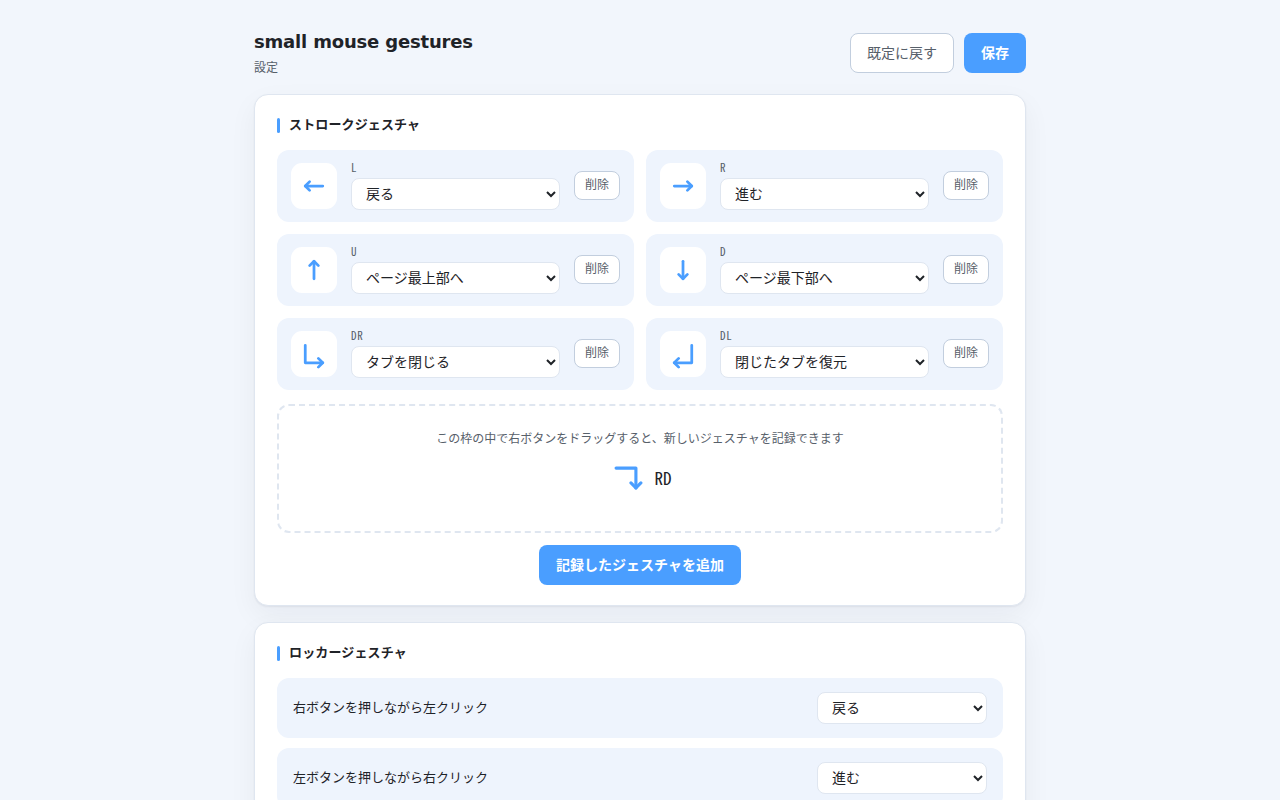
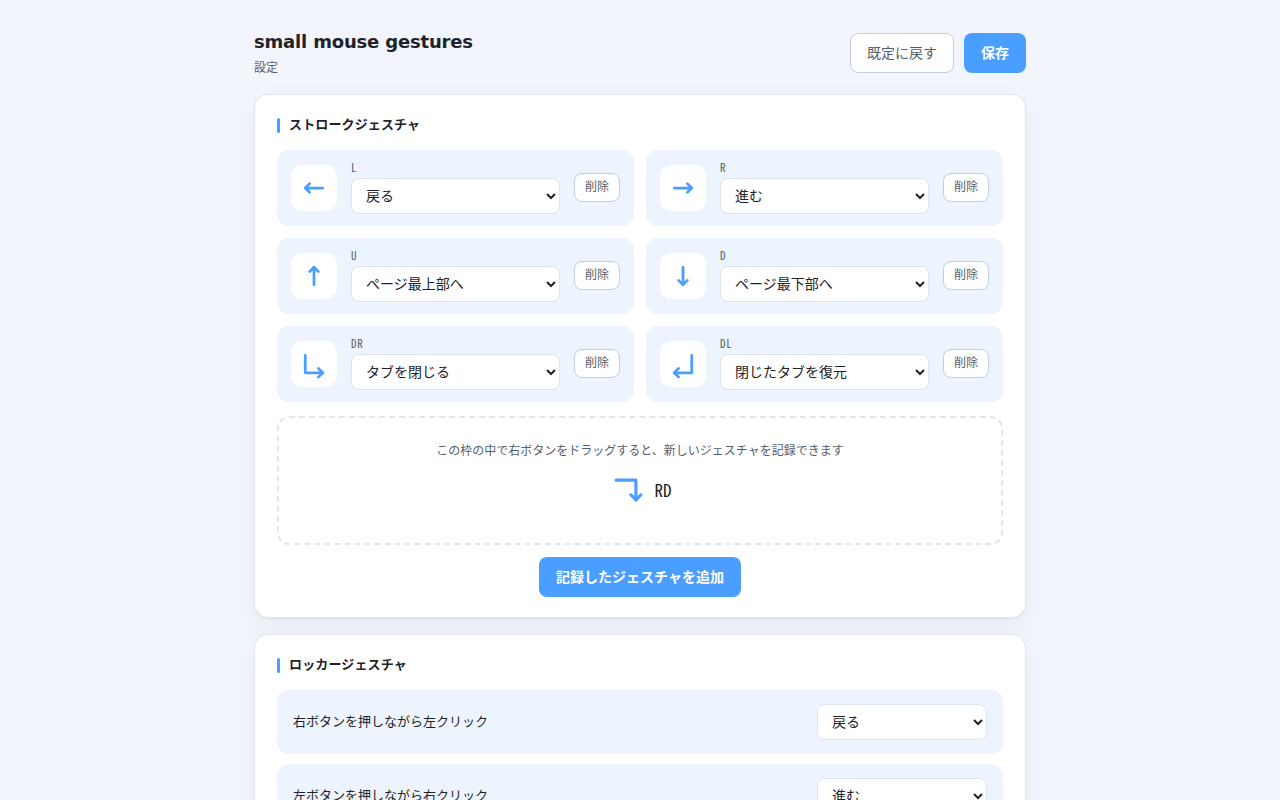
fix: 表示カードの入力欄の高さを揃える
「軌跡の色」と「軌跡の太さ」のラベルが縦にずれていた。入力欄は下端で
揃えているため、コントロールの高さの差がそのままラベルのずれになる。
色の入力欄だけ height: 32px を明示していて、数値入力の実測 36.4px と
食い違っていた（ラベルの位置が 4.3px ずれる）。

--control-height トークンを置き、数値入力・プルダウン・色の入力欄を
36px に統一した。実測でラベル・入力欄とも位置と高さが完全に一致する
ことを確認済み。プルダウンの高さも揃うため、タイルとロッカー行の
見た目も均一になる。

diff --git a/src/options/options.css b/src/options/options.css
@@ -15,6 +15,8 @@
   --input-bg: #ffffff;
   --ok: #1a7f37;
   --shadow: 0 1px 2px rgba(16, 24, 40, 0.06), 0 10px 28px rgba(16, 24, 40, 0.05);
+  /* 入力欄の高さ。揃えておかないと、下端揃えのときにラベルの位置がずれる。 */
+  --control-height: 36px;
 }
 
 @media (prefers-color-scheme: dark) {
@@ -271,11 +273,12 @@ body {
 input[type="number"],
 select {
   font: inherit;
+  height: var(--control-height);
   color: var(--fg);
   background: var(--input-bg);
   border: 1px solid var(--border);
   border-radius: 8px;
-  padding: 6px 10px;
+  padding: 0 10px;
 }
 
 input[type="number"] { width: 104px; }
@@ -287,7 +290,7 @@ select { min-width: 170px; }
 
 input[type="color"] {
   width: 44px;
-  height: 32px;
+  height: var(--control-height);
   padding: 2px;
   border: 1px solid var(--border);
   border-radius: 8px;
